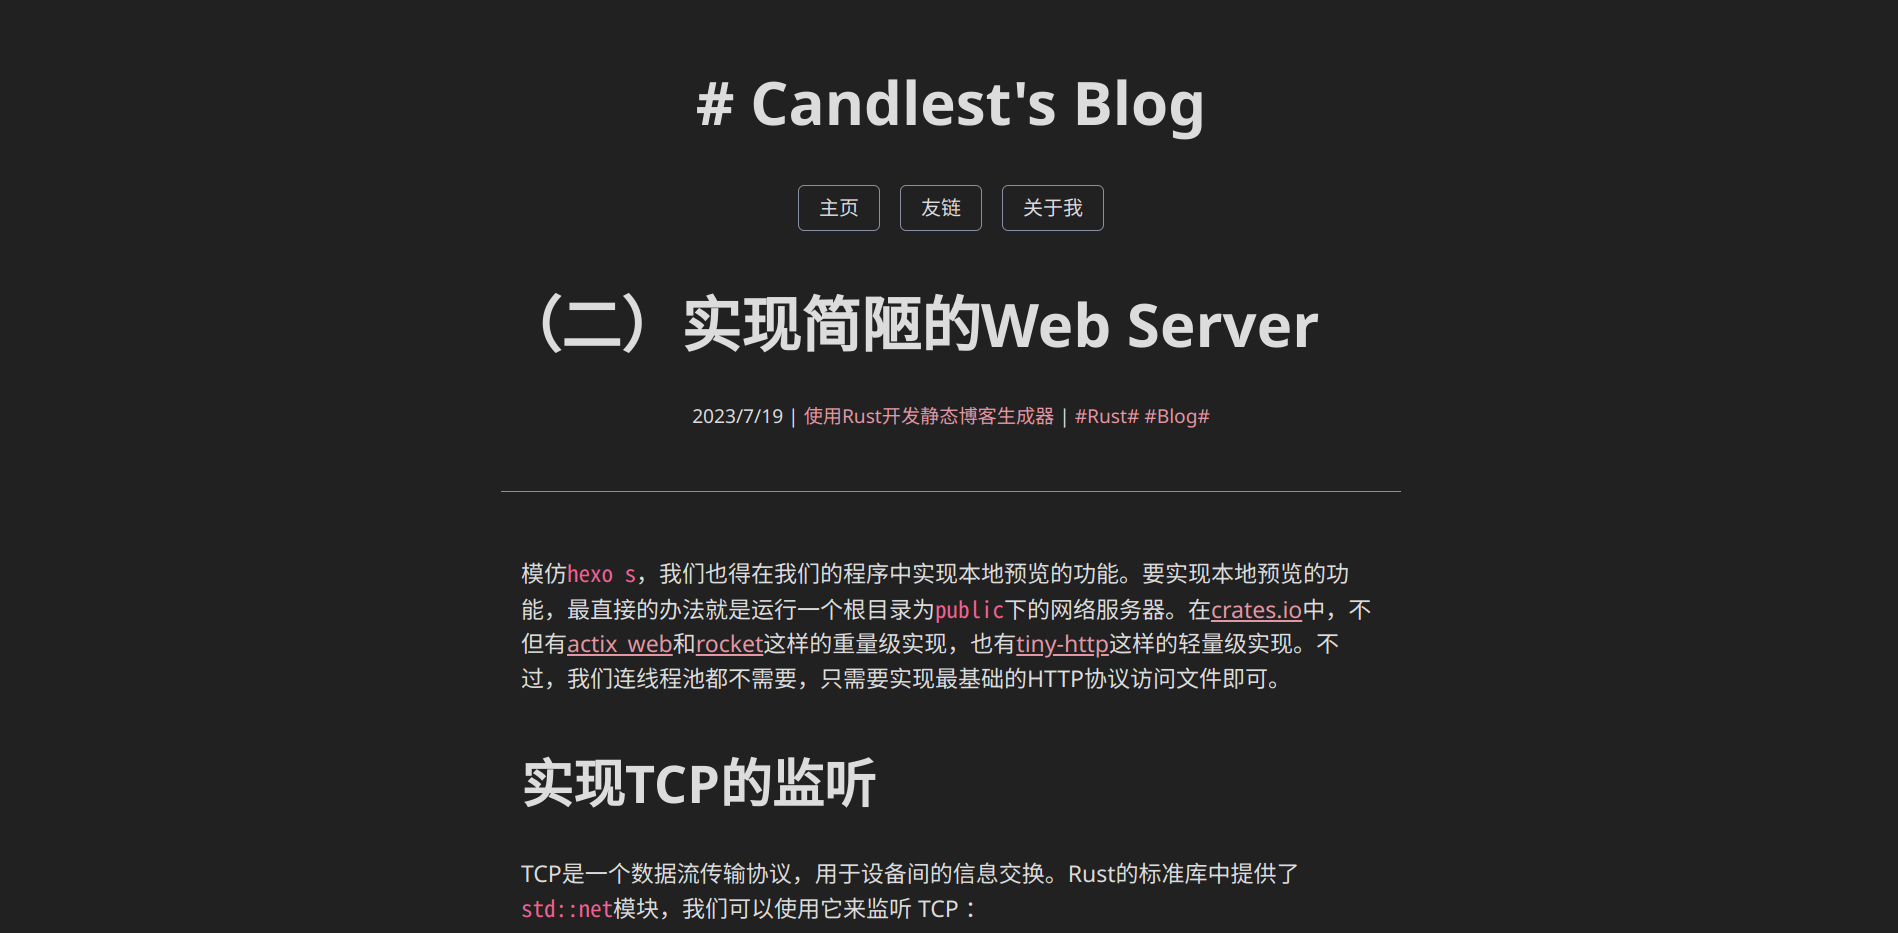
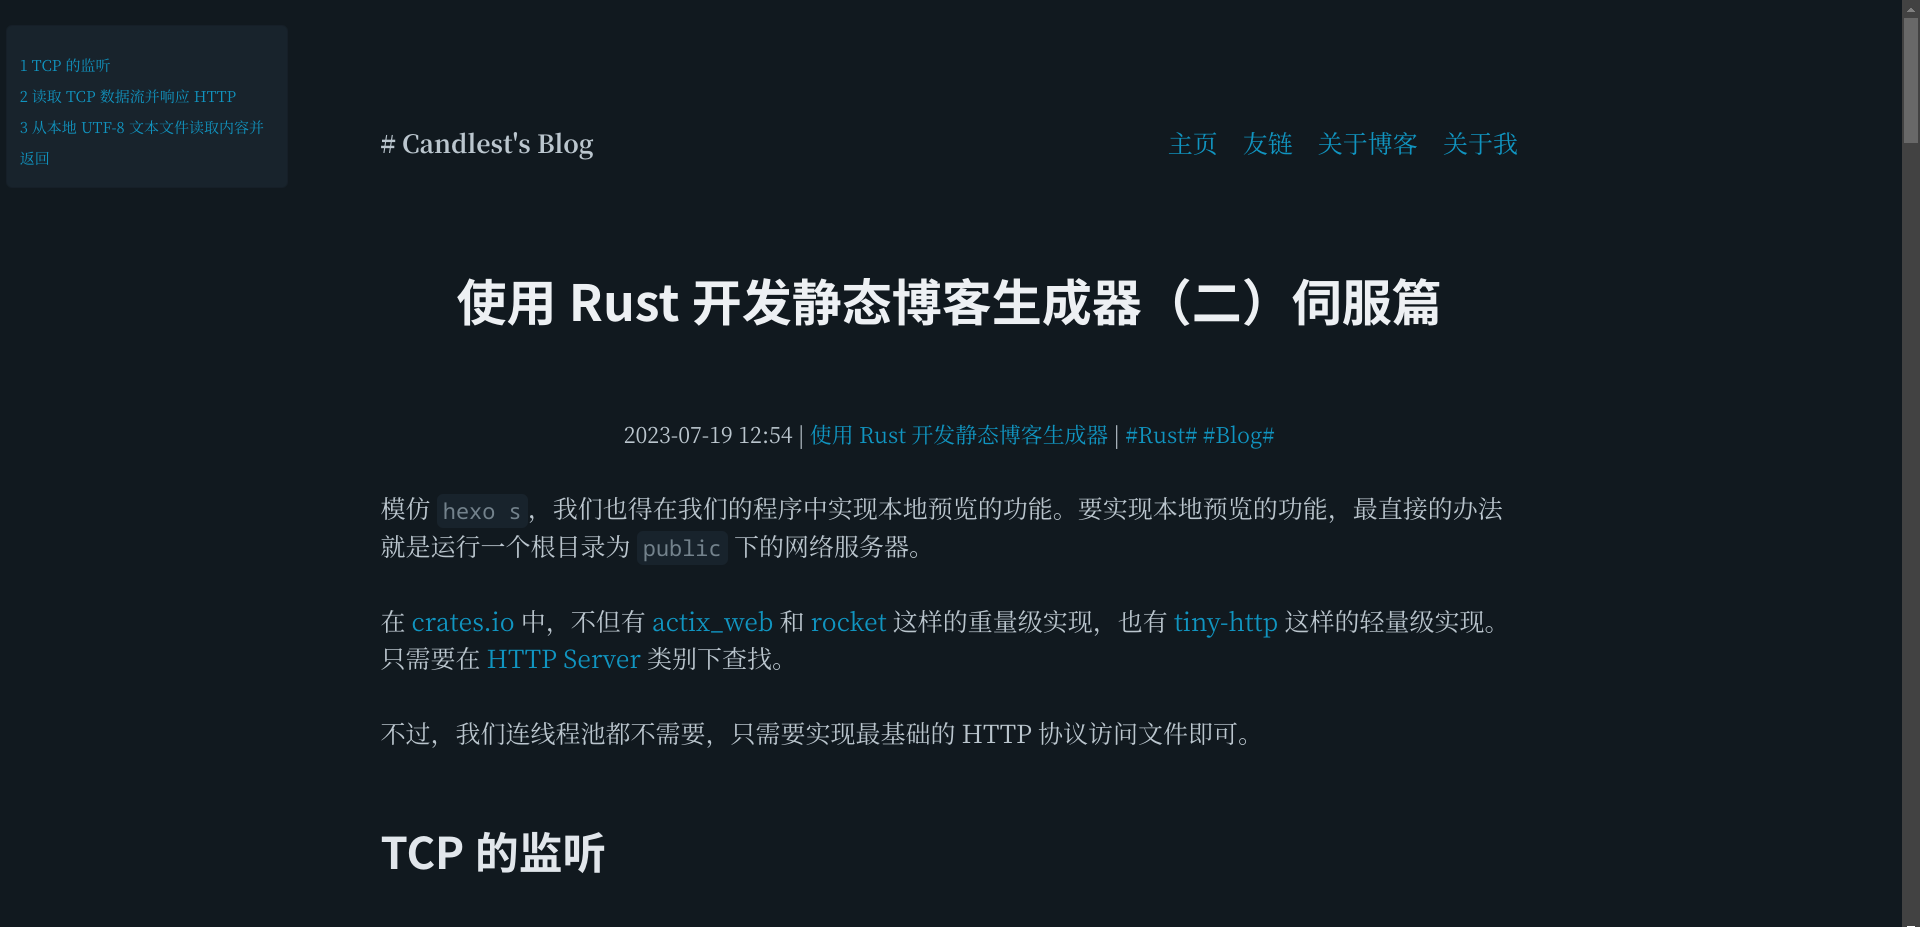
📃 docs(README): add todo

diff --git a/src/build.rs b/src/build.rs
@@ -1,9 +1,9 @@
+use crate::utils::{self, get_path_list, read_markdown, Post, PostObject};
 use serde::{Deserialize, Serialize};
 use std::ops::Add;
-use toml::{Value, value::Datetime};
-use crate::utils::{self, PostObject, Post, get_path_list, read_markdown};
+use toml::{value::Datetime, Value};
 
-pub fn build_pages() {
+pub fn build_pages(theme: String) {
     let getfilelist: Vec<String> = get_path_list(utils::PAGE_DIR);
     for p in getfilelist.iter() {
         if p.ends_with("markdown") || p.ends_with("md") {
@@ -17,7 +17,7 @@ pub fn build_pages() {
             let web_path = utils::path_local2web(&html_file);
             //end add
             let (toml_t, body_h) = read_markdown(p);
-            create_html_from_page(html_file, toml_t, body_h);
+            create_html_from_page(html_file, toml_t, body_h, theme.clone());
         }
     }
 }
@@ -89,14 +89,20 @@ pub fn build_static_dir() {
 //     std::fs::write(html_path, rendered);
 // }
 
-pub fn create_html_from_page(html_path: String, toml_info: String, body_html: String) {
-    let tera = match tera::Tera::new(format!("{}/**/*.html", utils::TEMPLATE_DIR).as_str()) {
-        Ok(t) => t,
-        Err(e) => {
-            println!("Parsing error(s): {}", e);
-            ::std::process::exit(1);
-        }
-    };
+pub fn create_html_from_page(
+    html_path: String,
+    toml_info: String,
+    body_html: String,
+    theme: String,
+) {
+    let tera =
+        match tera::Tera::new(format!("{}/{}/**/*.html", utils::TEMPLATE_DIR, theme).as_str()) {
+            Ok(t) => t,
+            Err(e) => {
+                println!("Parsing error(s): {}", e);
+                ::std::process::exit(1);
+            }
+        };
     let mut context = tera::Context::new();
     let page: Page = toml::from_str(&toml_info).unwrap();
     //dbg!(post);
@@ -109,15 +115,16 @@ pub fn create_html_from_page(html_path: String, toml_info: String, body_html: St
     std::fs::write(html_path, rendered).unwrap();
 }
 
-pub fn create_index(post_urls: Vec<PostObject>, body_html: String) {
+pub fn create_index(post_urls: Vec<PostObject>, body_html: String, theme: String) {
     let html_path = format!("{}/{}", utils::PUBLIC_DIR, "index.html");
-    let tera = match tera::Tera::new(format!("{}/**/*.html", utils::TEMPLATE_DIR).as_str()) {
-        Ok(t) => t,
-        Err(e) => {
-            println!("Parsing error(s): {}", e);
-            ::std::process::exit(1);
-        }
-    };
+    let tera =
+        match tera::Tera::new(format!("{}/{}/**/*.html", utils::TEMPLATE_DIR, theme).as_str()) {
+            Ok(t) => t,
+            Err(e) => {
+                println!("Parsing error(s): {}", e);
+                ::std::process::exit(1);
+            }
+        };
     let mut context = tera::Context::new();
     //dbg!(post);
     context.insert("body", body_html.as_str());
@@ -136,9 +143,7 @@ pub fn create_index(post_urls: Vec<PostObject>, body_html: String) {
     std::fs::write(html_path, rendered).unwrap();
 }
 
-
 #[derive(Serialize, Deserialize, Debug)]
 pub struct Page {
     title: String,
 }
-

diff --git a/src/generate.rs b/src/generate.rs
@@ -1,7 +1,7 @@
 use serde::{Deserialize, Serialize};
 use toml::value::Datetime;
 
-use crate::utils::{self, PostObject, Post};
+use crate::utils::{self, Post, PostObject, PostString};
 
 /* generate.rs
  * 使用它替代build.rs
@@ -67,7 +67,15 @@ impl PostGenerator {
 
         self.html_path = format!("{}/Post/{}.html", utils::PUBLIC_DIR, file_name);
         let post: Post = toml::from_str(&self.toml_info).unwrap();
-        context.insert("post", &post);
+        context.insert(
+            "post",
+            &PostString {
+                title: post.title,
+                datetime: post.datetime.to_string(),
+                tags: post.tags,
+                category: post.category,
+            },
+        );
         //render
         rendered = tera.render("post.html", &context).unwrap();
 
@@ -81,7 +89,7 @@ impl PostGenerator {
         let web_path = utils::path_local2web(&self.html_path);
         PostObject {
             title: p.title,
-            datetime: p.datetime,
+            datetime: p.datetime.to_string(),
             tags: p.tags,
             category: p.category,
             url: web_path,

diff --git a/src/options.rs b/src/options.rs
@@ -1,7 +1,9 @@
 use colored::Colorize;
 
-
-use crate::{utils::{get_path_list, PostObject, CONFIG_FILE, read_markdown, STATIC_DIR, PAGE_DIR}, build::create_index};
+use crate::{
+    build::create_index,
+    utils::{get_path_list, read_markdown, PostObject, CONFIG_FILE, PAGE_DIR, STATIC_DIR},
+};
 
 use super::*;
 /*Print Help List */
@@ -37,11 +39,9 @@ pub fn build() {
     let handle_static = std::thread::spawn(|| {
         build::build_static_dir();
     });
-    let handle_pages = std::thread::spawn(|| {
-        build::build_pages();
-    });
+
+    build::build_pages(theme_name.clone());
     handle_static.join().unwrap();
-    handle_pages.join().unwrap();
 
     let getfilelist: Vec<String> = get_path_list(utils::SOURCE_DIR);
     let mut posts_vec: Vec<PostObject> = vec![];
@@ -54,7 +54,7 @@ pub fn build() {
         }
     }
     let index_body_html = read_markdown(format!("{}/index.md", PAGE_DIR).as_str()).1;
-    create_index(posts_vec, index_body_html)
+    create_index(posts_vec, index_body_html, theme_name.clone())
 }
 
 /*RUN PUBLIC_DIR on local web server*/

diff --git a/src/utils.rs b/src/utils.rs
@@ -98,14 +98,23 @@ pub struct Post {
     pub tags: Vec<String>,
     pub category: String,
 }
+
+#[derive(Serialize, Deserialize, Debug)]
+pub struct PostString {
+    pub title: String,
+    pub datetime: String,
+    pub tags: Vec<String>,
+    pub category: String,
+}
 #[derive(Serialize, Deserialize, Debug)]
 pub struct PostObject {
     pub title: String,
-    pub datetime: Datetime,
+    pub datetime: String,
     pub tags: Vec<String>,
     pub category: String,
     pub url: String,
 }
+
 
 #[derive(Serialize, Deserialize, Debug)]
 pub struct Config{

diff --git a/README/README_CN.md b/README/README_CN.md
@@ -16,7 +16,7 @@
 
 ## 关于rublog
 
-rublog` /rʌblɑg/ `是一个使用`Rust`编写的静态博客生成器，实现了以下功能：
+rublog`/rʌblɑg/`是一个使用`Rust`编写的静态博客生成器，实现了以下功能：
 
 - 通过[pulldown cmark](https://github.com/raphlinus/pulldown-cmark)将`markdown`转换为`html`
 - 使用[toml-rs](https://github.com/toml-rs/toml)实现了类似`YAML Front Matter`的文章属性，查看[TOML Front Matter](#TOML Front Matter)
@@ -80,33 +80,34 @@ git clone https://github.com/Candlest/rublog-template.git
 
 > 由于Candlest正在准备2024年的中国高考，开发进度大概率暂缓。
 
-`TOML Front Matter`相关：
+`TOML Front Matter` 相关：
 
-- [ ] `TOML Front Matter`缺省处理
-- [ ] 更多的`TOML Front Matter`
-- [ ] 通过命令行参数生成默认`TOML Front Matter`
-- [ ] 通过`TOML Front Matter`为文章排序，以及通过标签索引文章
+- [ ] `TOML Front Matter` 缺省处理
+- [ ] 更多的 `TOML Front Matter`
+- [ ] 通过命令行参数生成默认 `TOML Front Matter`
+- [ ] 通过 `TOML Front Matter` 为文章排序
+- [ ] 通过 `tags`, `category` 索引文章
 
 插件与可拓展性：
 
-- [ ] 使用`config.toml`管理网页相关参数
-- [ ] 构建一个插件管理系统，并使用插件管理系统添加`gitalk`，`highlight.js`等
-- [ ] 构建一个主题管理系统，并创建默认主题
+- [ ] 使用 `config.toml` 管理网页相关参数
+- [ ] 构建一个插件管理系统，并使用插件管理系统添加 `gitalk`，`highlight.js` 等
+- [x] 构建一个主题管理系统，并创建默认主题
 
 代码相关：
 
-- [ ] 认真地写错误处理，而不是`unwarp()`走天下
+- [ ] 认真地写错误处理，而不是 `unwarp()` 走天下
 - [ ] 自己写一个能够满足博客需求的server实现，或者找到兼具轻量与高性能的库
-- [ ] 整理项目，学习[crates.io](https://crates.io)的项目格式
+- [ ] 整理项目，学习[ crates.io ](https://crates.io)的项目格式
 
 文档相关：
 
-- [ ] 使用GitHub Action生成贡献者列表
+- [x] 生成贡献者列表
 - [ ] 拆解README
 
 ## TOML Front Matter
 
-目前，有两种`TOML Front Matter`格式：Post 和 Page。
+目前，有两种 `TOML Front Matter` 格式：Post 和 Page。
 
 ```rust
 #[derive(Serialize, Deserialize, Debug)]
@@ -122,7 +123,7 @@ pub struct Page {
 }
 ```
 
-我们可以通过`TOML Front Matter`设置`markdown`文档的属性，通过`tera`模板语言访问它们。
+我们可以通过 `TOML Front Matter` 设置 `markdown` 文档的属性，通过 `tera` 模板语言访问它们。
 
 ## 相关
 
@@ -132,10 +133,10 @@ pub struct Page {
 
 ## 贡献者
 
-[@Candlest](https://github.com/Candlest)
+[<a herf="https://github.com/Candlest/rublog/graphs/contributors"><img src="https://contrib.rocks/image?repo=Candlest/rublog" alt="Contributors" /></a>](https://github.com/Candlest)
 
 欢迎任何的贡献！
 
 ## 许可证
 
-本项目使用**MIT License**开源。
+本项目使用 **MIT License** 开源。

diff --git a/README.md b/README.md
@@ -14,10 +14,8 @@
   - [Contributors](#contributors)
   - [license](#license)
 
-<small><i><a href='http://ecotrust-canada.github.io/markdown-toc/'>Table of contents generated with markdown-toc</a></i></small>
 
-   
-   the Chinese version: [中文](./README/README_CN.md)
+the Chinese version: [中文](./README/README_CN.md)
 
 ## About rublog
 
@@ -90,7 +88,8 @@ The `/public` directory is the root directory of the generated website, just upl
 - [ ] `TOML Front Matter` default handling
 - [ ] More `TOML Front Matter`
 - [ ] Generate default `TOML Front Matter` via command line arguments
-- [ ] Sort articles by `TOML Front Matter`, and index articles by tags
+- [ ] Sort articles by `TOML Front Matter`
+- [ ] index articles by `tags` and `category`
 
 Plugins and Extensibility:
 
@@ -106,7 +105,7 @@ Code related:
 
 Documentation related:
 
-- [ ] Generate list of contributors using GitHub Action
+- [x] Generate list of contributors
 - [ ] Disassemble README
 
 ## TOML Front Matter
@@ -137,7 +136,7 @@ We can set the properties of the `markdown` document through `TOML Front Matter`
 
 ## Contributors
 
-[@Candlest](https://github.com/Candlest)
+<a herf="https://github.com/Candlest/rublog/graphs/contributors"><img src="https://contrib.rocks/image?repo=Candlest/rublog" alt="Contributors" /></a>
 
 Any contributions are welcome!
 
